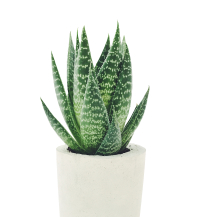
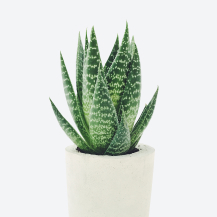
style.row img

Changed region(s): [[0.18, 0.1106, 0.51, 0.7189], [0.51, 0.0829, 0.75, 1.0], [0.27, 0.6636, 0.3, 0.7189]]

diff --git a/index.html b/index.html
@@ -109,7 +109,7 @@
           <div class="row">
             <div class="col-2.5">
               <div class="card">
-                <img src="./main.img6 .jpg">
+                <img src="./main.img6.jpg">
                 <div class="card-text">
                   <p>Kaktus Plants</p>
                   <h6>IDR 85.000</h6>
@@ -129,7 +129,7 @@
 
             <div class="col-2.5">
               <div class="card">
-                <img src="./main.img8.png" >
+                <img src="./main.img8.jpg" >
                 <div class="card-text">
                   <p>Kecubung Plants</p>
                   <h6>IDR 85.000</h6>
@@ -139,7 +139,7 @@
 
             <div class="col-2.5">
               <div class="card">  
-                <img src="./main.img9.png" >
+                <img src="./main.img9.jpg" >
                 <div class="card-text">
                   <p>Kecubung Plants</p>
                   <h6>IDR 85.000</h6>

diff --git a/style.css b/style.css
@@ -254,3 +254,7 @@ main{
 .row{
   display: flex;
 }
+.row img{
+  margin-left: -20px;
+  margin-top: -10px;
+}
